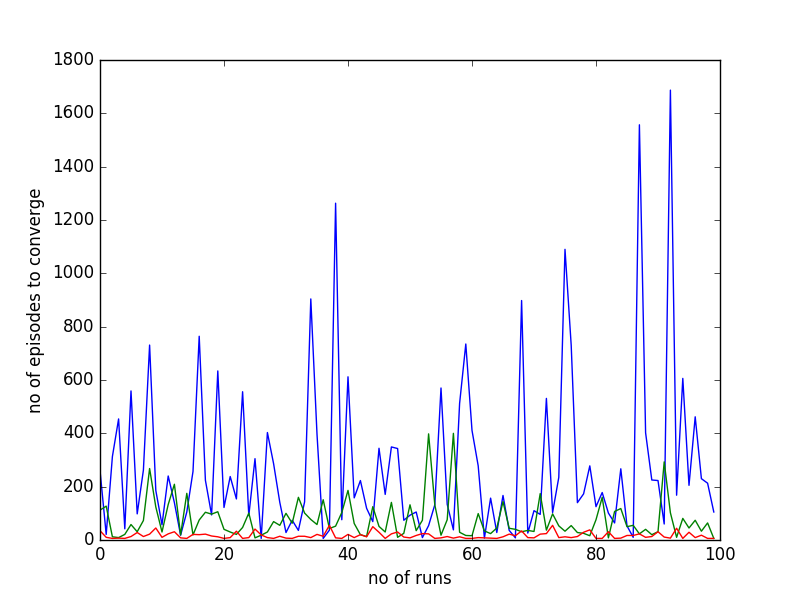
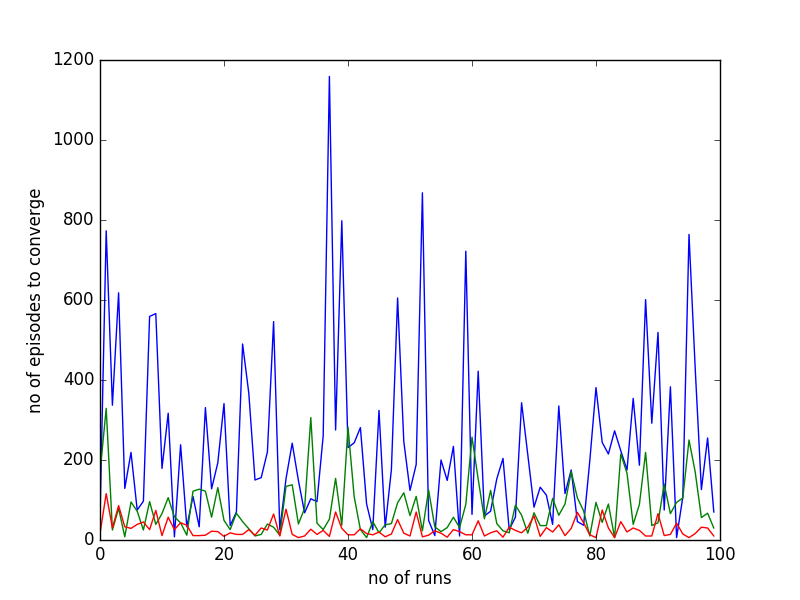
lstest

diff --git a/Qgraph.py b/Qgraph.py
@@ -200,9 +200,9 @@ class Agent:
 
 
 
-def run(no_of_runs,epsilon,rewardmax):
+def run(no_of_runs,epsilon,rewardmax,demon=False,Q=[]):
     
-
+    
     #robot.go_to_pose(Pose(200, 200, 0,angle_z=degrees(90)), relative_to_robot=False).wait_for_completed()
     #print (robot.pose)
     
@@ -211,14 +211,19 @@ def run(no_of_runs,epsilon,rewardmax):
     bot = Agent((0,0),field,epsilon,rewardmax)
     k=0
     moves_like_jagger=[]
-
+    if (demon):
+       bot.Q=np.load("lfd5.npy")
+       input=()
+    if(len(Q)!=0):
+       bot.Q=Q
+       input=()
+        
     print('enter:')
 
     
 
     executed_moves=[]
     movesr=[]
-
     l=1
     
     while(True):
@@ -233,7 +238,7 @@ def run(no_of_runs,epsilon,rewardmax):
                 l=1
                 continue
                 
-        
+            
         moves=bot.get_legal_moves()
         
 
@@ -353,6 +358,10 @@ def run(no_of_runs,epsilon,rewardmax):
                     print(len(movesr),"Movesr")
                     k=k+1
                     moves_like_jagger.append(len(movesr))
+                    plt.plot(movesr)
+                    plt.xlabel("No of episodes")
+                    plt.ylabel("no of moves required to reach a goal")
+                    
                     movesr=[]
             if(k>=no_of_runs):
                #print (moves_like_jagger,sum(moves_like_jagger)/len(moves_like_jagger))
@@ -360,8 +369,8 @@ def run(no_of_runs,epsilon,rewardmax):
                #plt.savefig('foof.png')
                #plt.show()
                #sns.lmplot(x="runs", y="No of episodes to converge", data=moves_like_jagger);
-
-               return(moves_like_jagger)
+               plt.savefig("Decay curve")
+               return(moves_like_jagger,sum(moves_like_jagger)/len(moves_like_jagger),bot.Q)
             #l=input()
             
                         
@@ -377,18 +386,24 @@ if __name__ == '__main__':
         
      try:
         epsilons=[0.7,0.8,0.9]
-        no_of_runs=100
+        no_of_runs=1
         
         jagger=[]
         strs=[]
         r=10
+        ms=[]
+        Q=[]
         for e in epsilons:
-            jagger.append(run(100,e,r))
+            j,m,Q=run(100,e,r,False,Q)
+            jagger.append(j)
+            ms.append(m)
+        for i in range(len(epsilons)):
+                   print ("for epsilon =",epsilons[i],"mean = ",ms[i] )       
         for l,j in enumerate(jagger):
             plt.plot(j,label=str(epsilons[l]))        
         plt.xlabel("no of runs")
         plt.ylabel("no of episodes to converge")
-        plt.savefig('Comparision.png')
+        plt.savefig('Comparision-lfd4.png')
                    
                 
 

diff --git a/QLearnAgent1.py b/QLearnAgent1.py
@@ -208,7 +208,7 @@ def run(sdk_conn):
     tasks = [0,0,90,0,270,0,0]
     field = Environment(5,5)
     bot = Agent((0,0),field)
-
+    tasksr=[]
     print('enter:')
 
     
@@ -258,12 +258,17 @@ def run(sdk_conn):
             if(task=='r'):
                rflag=True
                l='a'
+            
+                           
         if l=='a':
             task_policy=bot.agentChoose()
         #print(task_policy)
             task = action_map_inv[task_policy]
             print (task)
-        
+        tasksr.append(task)
+        #if(len(tasksr)>5):
+           #if tasksr[-1]==tasksr[-2] or tasksr[-1]==tasksr[-3]:
+              #task=np.random.choice(['u','h','j','k'],1)[0]
         #task=np.random.choice(['u','h','j','k'],1)
         #task=task[0]
         
@@ -323,7 +328,7 @@ def run(sdk_conn):
         #print(bot.Q,"Qmat")
         if(rflag):
             robot.turn_in_place(degrees(i)).wait_for_completed()
-            robot.drive_straight(distance_mm(50),speed_mmps(200)).wait_for_completed()
+            robot.drive_straight(distance_mm(70),speed_mmps(200)).wait_for_completed()
 
         #if(bot.map[4][4]==1):
         #    robot.set_all_backpack_lights(cozmo.lights.blue_light)
@@ -377,7 +382,8 @@ def run(sdk_conn):
             if(l=="diasble"):
                 rflag=False 
                 l='a'                
-                            
+            if (l=="save"):
+                np.save("lfd10.npy",bot.Q,)            
                     
 
         #print(bot.get_legal_moves())

diff --git a/QLearnAgent.py b/QLearnAgent.py
@@ -259,7 +259,7 @@ def run():
         #task=task[0]
         
         if l=='m':
-            task=raw_input()
+            task=input()
         
         action=task
         #print(action)
@@ -319,7 +319,7 @@ def run():
 
         #if(bot.map[2][2]==1):
         #    robot.set_all_backpack_lights(cozmo.lights.blue_light)
-        #bot.print_map()
+        bot.print_map()
         
         if(action in ['u','j','h','k']):
         
@@ -355,7 +355,9 @@ def run():
             bot.move_count=0
             bot.map=np.zeros((5,5))
             print(movesr[-1],"latest moves")
-            l=raw_input('Amber:')
+            l=input('Amber:')
+            if (l=="save"):
+                np.save("lfd5.npy",bot.Q,) 
             
                         
                     
